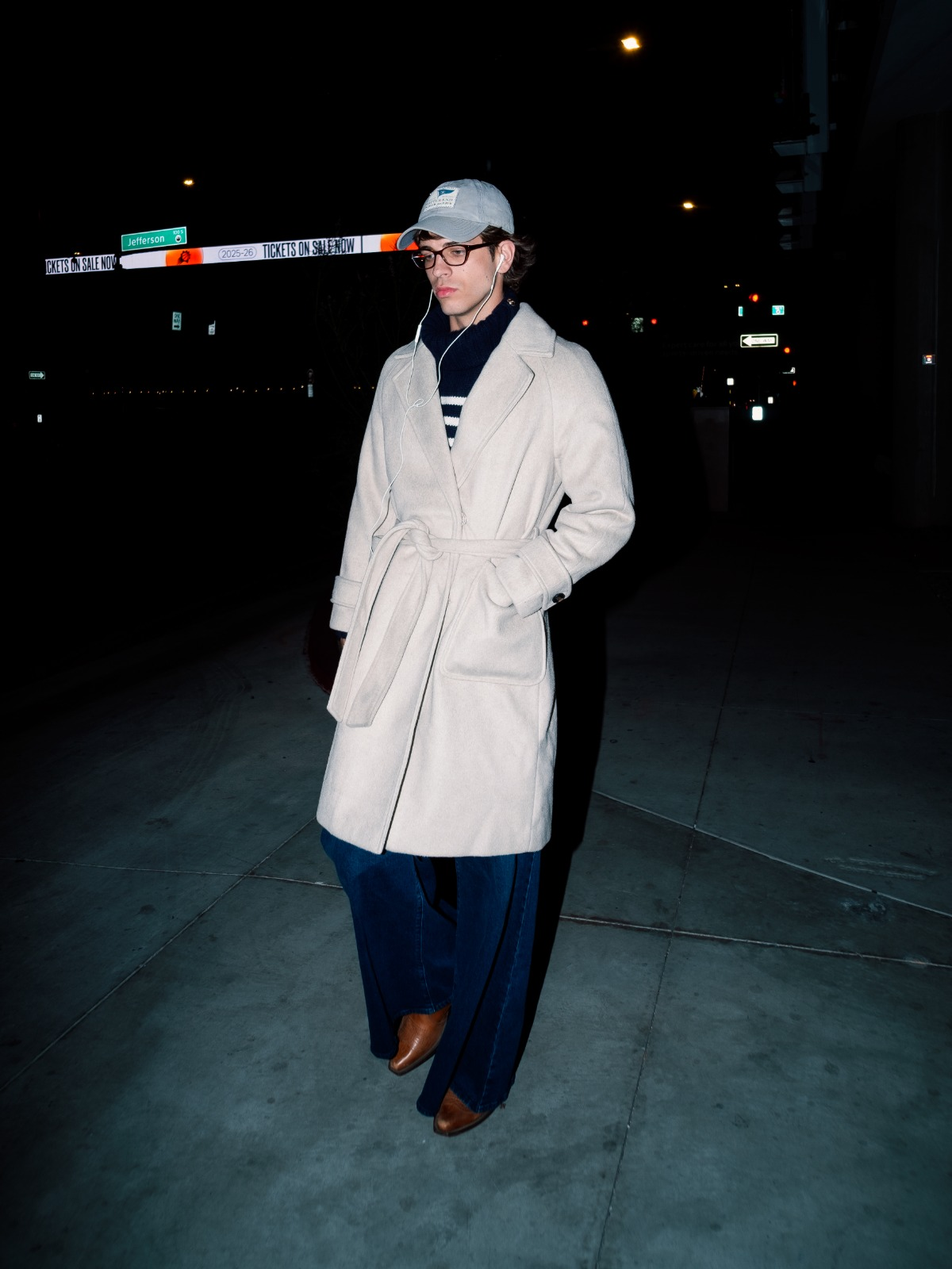
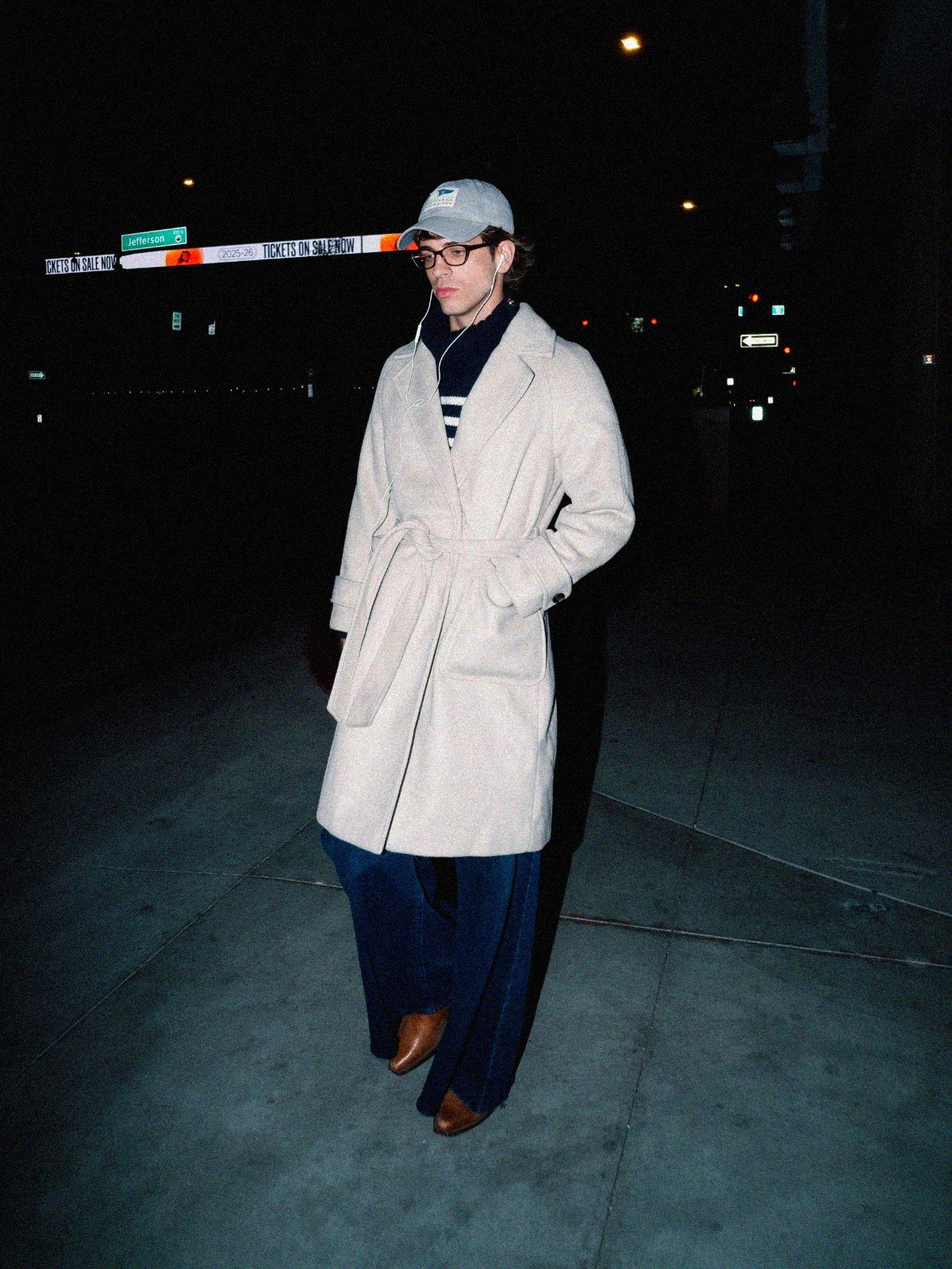
Add footer panel with socials, legal links, Noiskey branding

diff --git a/src/scripts/starfield.ts b/src/scripts/starfield.ts
@@ -16,8 +16,8 @@ export function initStarfield(canvasId: string, scrollerId: string) {
 
   const NUM_BACKGROUND_STARS = 200;
   const STAR_TEXT = "KOVA PARKER";
-  const TEXT_REVEAL_DURATION = 4000;
-  const TEXT_REVEAL_START = 2000;
+  const TEXT_REVEAL_DURATION = 8000;
+  const TEXT_REVEAL_START = 1000;
 
   let mouseX = -1000;
   let mouseY = -1000;
@@ -106,6 +106,7 @@ export function initStarfield(canvasId: string, scrollerId: string) {
     baseX: number; baseY: number;
     x: number; y: number;
     vx: number = 0; vy: number = 0;
+    deviationPhase: number; // tiny individual offset
 
     constructor(x: number, y: number, delay: number) {
       this.baseX = x; this.baseY = y;
@@ -115,7 +116,8 @@ export function initStarfield(canvasId: string, scrollerId: string) {
       this.twinkleSpeed = Math.random() * 0.004 + 0.002;
       this.twinkleOffset = Math.random() * Math.PI * 2;
       this.targetBrightness = Math.random() * 0.3 + 0.7;
-      this.popDuration = 300 + Math.random() * 200;
+      this.popDuration = 800 + Math.random() * 600;
+      this.deviationPhase = Math.random() * Math.PI * 2;
     }
     update(time: number, elapsed: number) {
       if (!this.born && elapsed >= this.delay) {
@@ -126,9 +128,10 @@ export function initStarfield(canvasId: string, scrollerId: string) {
       const age = elapsed - (this.birthTime || 0);
       if (age < this.popDuration) {
         const progress = age / this.popDuration;
-        const elastic = 1 - Math.pow(2, -10 * progress) * Math.cos(progress * Math.PI * 2);
-        this.size = this.targetSize * Math.min(elastic, 1);
-        this.brightness = this.targetBrightness * Math.min(progress * 1.5, 1);
+        // Smooth ease-out: starts fast, settles gently
+        const ease = 1 - Math.pow(1 - progress, 3);
+        this.size = this.targetSize * ease;
+        this.brightness = this.targetBrightness * ease;
       } else {
         this.size = this.targetSize;
         this.brightness = this.targetBrightness;
@@ -153,11 +156,19 @@ export function initStarfield(canvasId: string, scrollerId: string) {
         this.vy += forceDirectionY * force * pushStrength;
       }
 
-      // Spring back
-      // Very weak spring for slow return
-      const springStrength = 0.003; 
-      const returnX = this.baseX - this.x;
-      const returnY = this.baseY - this.y;
+      // Uniform float — all stars move together, with super slight per-star deviation
+      const floatTime = time * 0.0003;
+      // Main uniform drift (all stars get the same offset)
+      const floatX = Math.sin(floatTime * 0.7) * 15 + Math.sin(floatTime * 0.4) * 10;
+      const floatY = Math.cos(floatTime * 0.5) * 10 + Math.cos(floatTime * 0.25) * 8;
+      // Tiny per-star deviation (barely noticeable)
+      const devX = Math.sin(floatTime * 0.6 + this.deviationPhase) * 0.8;
+      const devY = Math.cos(floatTime * 0.5 + this.deviationPhase) * 0.6;
+
+      // Spring back to base + float offset
+      const springStrength = 0.008; 
+      const returnX = (this.baseX + floatX + devX) - this.x;
+      const returnY = (this.baseY + floatY + devY) - this.y;
       
       this.vx += returnX * springStrength;
       this.vy += returnY * springStrength;
@@ -183,51 +194,6 @@ export function initStarfield(canvasId: string, scrollerId: string) {
       ctx!.beginPath();
       ctx!.arc(this.x, this.y, this.displaySize, 0, Math.PI * 2);
       ctx!.fillStyle = `rgba(255, 250, 220, ${this.currentBrightness})`;
-      ctx!.fill();
-    }
-  }
-
-  class ShootingStar {
-    active: boolean = false; x: number = 0; y: number = 0; length: number = 0;
-    speed: number = 0; angle: number = 0; opacity: number = 0; thickness: number = 0;
-
-    activate() {
-      this.x = Math.random() * starCanvas!.width * 0.8;
-      this.y = Math.random() * starCanvas!.height * 0.4;
-      this.length = Math.random() * 100 + 50;
-      this.speed = Math.random() * 15 + 10;
-      this.angle = Math.PI / 4 + (Math.random() - 0.5) * 0.3;
-      this.opacity = 1;
-      this.thickness = Math.random() * 2 + 1;
-      this.active = true;
-    }
-    update() {
-      if (!this.active) return;
-      this.x += Math.cos(this.angle) * this.speed;
-      this.y += Math.sin(this.angle) * this.speed;
-      this.opacity -= 0.015;
-      if (this.opacity <= 0 || this.x > starCanvas!.width + 100 || this.y > starCanvas!.height + 100) {
-        this.active = false;
-      }
-    }
-    draw() {
-      if (!this.active) return;
-      const tailX = this.x - Math.cos(this.angle) * this.length;
-      const tailY = this.y - Math.sin(this.angle) * this.length;
-      const gradient = ctx!.createLinearGradient(this.x, this.y, tailX, tailY);
-      gradient.addColorStop(0, `rgba(255, 250, 220, ${this.opacity})`);
-      gradient.addColorStop(0.3, `rgba(255, 250, 220, ${this.opacity * 0.6})`);
-      gradient.addColorStop(1, 'transparent');
-      ctx!.beginPath();
-      ctx!.moveTo(this.x, this.y);
-      ctx!.lineTo(tailX, tailY);
-      ctx!.strokeStyle = gradient;
-      ctx!.lineWidth = this.thickness;
-      ctx!.lineCap = 'round';
-      ctx!.stroke();
-      ctx!.beginPath();
-      ctx!.arc(this.x, this.y, this.thickness, 0, Math.PI * 2);
-      ctx!.fillStyle = `rgba(255, 250, 220, ${this.opacity})`;
       ctx!.fill();
     }
   }
@@ -260,27 +226,22 @@ export function initStarfield(canvasId: string, scrollerId: string) {
 
   let backgroundStars: BackgroundStar[] = [];
   let textStars: TextStar[] = [];
-  let shootingStars: ShootingStar[] = [];
 
   function initStarScene() {
     backgroundStars = [];
     // Removed background stars
     textStars = [];
     const textPoints = getStarTextPoints(STAR_TEXT);
-    textPoints.sort((a, b) => (a.x * 0.3 + Math.random() * starCanvas!.width * 0.7) - (b.x * 0.3 + Math.random() * starCanvas!.width * 0.7));
     for (let i = 0; i < textPoints.length; i++) {
-      const delay = TEXT_REVEAL_START + (i / textPoints.length) * TEXT_REVEAL_DURATION;
-      const randomDelay = delay + (Math.random() - 0.5) * 500;
-      textStars.push(new TextStar(textPoints[i].x, textPoints[i].y, randomDelay));
+      // Each star gets a fully random delay — no index-based ordering
+      const delay = TEXT_REVEAL_START + Math.random() * TEXT_REVEAL_DURATION;
+      textStars.push(new TextStar(textPoints[i].x, textPoints[i].y, delay));
     }
-    shootingStars = [];
-    for (let i = 0; i < 5; i++) shootingStars.push(new ShootingStar());
   }
 
   initStarScene();
 
   let starStartTime: number | null = null;
-  let lastShootingStarTime = 0;
 
   function animateStars(timestamp: number) {
     // Determine the threshold based on mobile or desktop
@@ -295,16 +256,7 @@ export function initStarfield(canvasId: string, scrollerId: string) {
     }
     if (!starStartTime) starStartTime = timestamp;
     const elapsed = timestamp - starStartTime;
-    ctx!.fillStyle = '#000008';
-    ctx!.fillRect(0, 0, starCanvas!.width, starCanvas!.height);
-    if (timestamp - lastShootingStarTime > 8000 + Math.random() * 4000) {
-      const inactive = shootingStars.find(s => !s.active);
-      if (inactive) {
-        inactive.activate();
-        lastShootingStarTime = timestamp;
-      }
-    }
-    for (const star of shootingStars) { star.update(); star.draw(); }
+    ctx!.clearRect(0, 0, starCanvas!.width, starCanvas!.height);
     for (const star of backgroundStars) { star.update(timestamp); star.draw(); }
     for (const star of textStars) { star.update(timestamp, elapsed); star.draw(); }
     requestAnimationFrame(animateStars);
